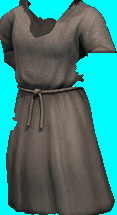
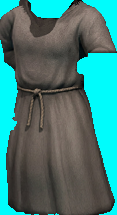
Apprentice's Robe: cleanup pass (loose specks and slivers, holes under the arms, cuirass-blue leftovers, the cyan fringe of the generated background)
Claude-Session: https://claude.ai/code/session_0181Jni9kZvd4mFTeovm6zfw

diff --git a/Tools/robe_make.py b/Tools/robe_make.py
@@ -136,3 +136,45 @@ def cut_at_elbow(spr, box, bod, body_off, waist_canvas, side='right', margin=1):
                 y=elbow-1-k
                 if y>=0 and not key2[y,x]: a[y,x]=(a[y,x]*f).astype(int)
     return Image.fromarray(a.astype('uint8'))
+
+def cleanup(spr, waist_row, drop_blue=True, close=4, open_it=2):
+    """final pass: loose specks and slivers, holes under the arms, cuirass-blue leftovers,
+    the cyan fringe of the generated picture's background"""
+    import cv2
+    a=np.asarray(spr).astype(int)
+    key=(a[...,0]<20)&(a[...,1]>230)&(a[...,2]>230)
+    M=~key
+    # 1) the robe is the main body: slivers narrower than ~5 px that hang off it go
+    core=ndimage.binary_opening(M,iterations=open_it)
+    lab,n=ndimage.label(core)
+    if n:
+        sizes=ndimage.sum(core,lab,range(1,n+1)); core=lab==(1+int(np.argmax(sizes)))
+    M=ndimage.binary_dilation(core,iterations=open_it+1)&M
+    # 2) holes between the sleeves and the body (above the sash): closed and painted over
+    up=np.zeros_like(M); up[:waist_row]=True
+    closed=ndimage.binary_fill_holes(ndimage.binary_closing(M,structure=np.ones((3,3)),iterations=close))
+    add=closed&~M&up
+    paint=add.copy()
+    # 3) bluish leftovers of the cuirass (the robe has no blue)
+    if drop_blue:
+        blue=M&(a[...,2]>a[...,0]+18)&(a[...,2]>a[...,1]+8)
+        paint|=blue
+    M=M|add
+    img=np.where(M[...,None],a,0).astype('uint8')
+    if paint.any():
+        img=cv2.inpaint(img,paint.astype('uint8')*255,3,cv2.INPAINT_TELEA)
+    a=img.astype(int)
+    # 4) the cyan fringe: edge pixels tinted toward cyan take their inner neighbours' colour
+    edge=M&ndimage.binary_dilation(~M,iterations=1)
+    for it in range(2):
+        tint=edge&((a[...,1]-a[...,0]>12)&(a[...,2]-a[...,0]>12))
+        if not tint.any(): break
+        inner=M&~tint
+        for y,x in zip(*np.where(tint)):
+            y0,y1,x0,x1=max(0,y-2),y+3,max(0,x-2),x+3
+            nb=inner[y0:y1,x0:x1]
+            if nb.any(): a[y,x]=a[y0:y1,x0:x1][nb].mean(axis=0)
+            else: M[y,x]=False
+        edge=M&ndimage.binary_dilation(~M,iterations=1)
+    out=np.where(M[...,None],a,np.array([0,252,252])).astype('uint8')
+    return Image.fromarray(out)
